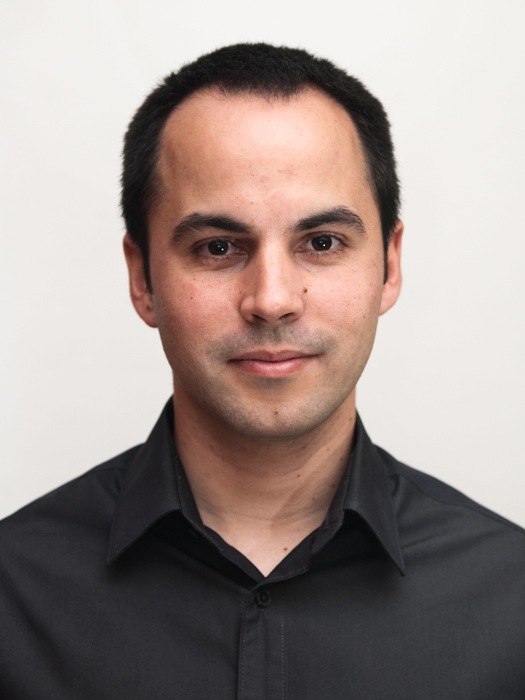
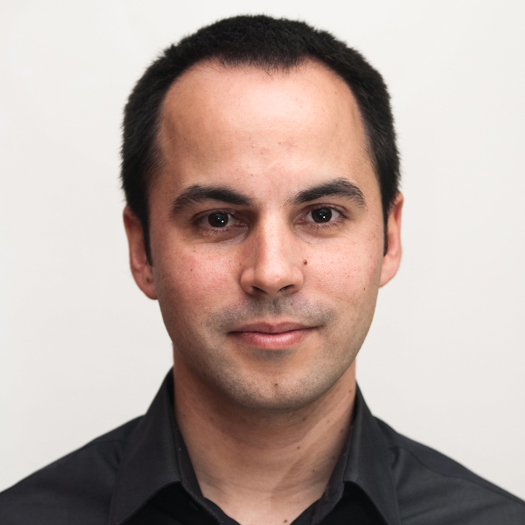
- Added effect in phone and email - Added flex auto in .about and .space-back - Some modifications to pass HTML and CSS validation - Some images have been deleted - The viewport is scalable

diff --git a/index.html b/index.html
@@ -1,14 +1,13 @@
 <!DOCTYPE html>
-<html>
+<html lang="en">
 
 <head>
     <meta charset="utf-8">
     <title>evaristo.info</title>
-    <meta name="description" content="evaristo.info">
+    <meta name="description" content="Evaristo Cuesta professional info">
     <meta name="keywords" content="evaristo cuesta, github, linkedin, .net developer, sevilla">
     <meta name="author" content="Evaristo Cuesta">
-    <meta name="viewport"
-        content="width=device-width, initial-scale=1.0, minimum-scale=1.0, maximum-scale=1.0, user-scalable=no">
+    <meta name="viewport" content="width=device-width, initial-scale=1.0, user-scalable=yes">
     <link rel="stylesheet" href="https://use.fontawesome.com/releases/v5.0.7/css/all.css">
     <link rel="stylesheet" media="screen" href="css/style.css">
 </head>
@@ -18,10 +17,10 @@
         <div class="card">
             <div class="front-card">
                 <img src="images/code.jpg" alt="card img" class="card-img">
-                <img src="images/profile-image1.jpg" alt="card img" class="profile-img">
+                <img src="images/profile-image.jpg" alt="card img" class="profile-img">
                 <h1>Evaristo Cuesta</h1>
                 <p class="job-title">.NET developer</p>
-                <p class="about">Advance Consultant & Engineer at Altran developing .NET software in Airbus</p>
+                <p class="about">Advance Consultant & Engineer at Altran developing .NET software at Airbus</p>
                 <a href="#" class="btn contact-button">Contact</a>
                 <ul class="social-media">
                     <li>
@@ -44,10 +43,10 @@
             </div>
             <div class="back-card">
                 <img src="images/code.jpg" alt="card img" class="card-img">
-                <img src="images/profile-image1.jpg" alt="card img" class="profile-img">
+                <img src="images/profile-image.jpg" alt="card img" class="profile-img">
                 <h2>Evaristo Cuesta</h2>
                 <p class="phone">
-                    <a href="tel:+34 637 53 45 61"><i class="fas fa-phone-square"></i> +34 637 53 45 61</a>
+                    <a href="tel:+34637534561"><i class="fas fa-phone-square"></i> +34 637 53 45 61</a>
                 </p>
                 <p class="email">
                     <a href="mailto:evaristocg@gmail.com"><i class="far fa-envelope"></i> evaristocg@gmail.com</a>

diff --git a/css/style.css b/css/style.css
@@ -37,8 +37,8 @@ body {
     animation: content-animation 1s ease;
     z-index: 998;
     padding: 1rem 0;
-    width: 15rem;
-    height: 30rem;
+    width: 17rem;
+    height: 31rem;
     display: flex;
     flex-direction: column;
     flex-wrap: wrap;
@@ -50,8 +50,8 @@ body {
 
 .front-card, .back-card {
     position: absolute;
-    width: 15rem;
-    height: 30rem;
+    width: 17rem;
+    height: 31rem;
     background-color: rgba(0, 0, 0, 0.2);
     border: .3rem solid rgba(255, 255, 255, 0.8);
     box-shadow: 0.5rem 0.5rem 1rem rgba(0, 0, 0, 0.5);
@@ -100,6 +100,7 @@ body {
     font-size: 1.1rem;
     font-weight: 300;
     margin: 1rem 0;
+    flex: auto;
     text-align: center;
     color: white;
 }
@@ -152,7 +153,26 @@ body {
 }
 
 .back-card .space-back {
-    margin-top: 3.6rem;
+    flex: auto;
+}
+
+.back-card .phone,
+.back-card .email {
+    padding: 0.3rem;
+    border-radius: .2rem;
+    transition: all .2s;
+}
+
+.back-card .phone:hover,
+.back-card .email:hover {
+    transform:  translateY(-2px);
+    box-shadow: .3rem .6rem .9rem rgba(0, 0, 0, .5);
+}
+
+.back-card .phone:active,
+.back-card .email:active {
+    transform:  translateY(0);
+    box-shadow: none;
 }
 
 .social-media {
